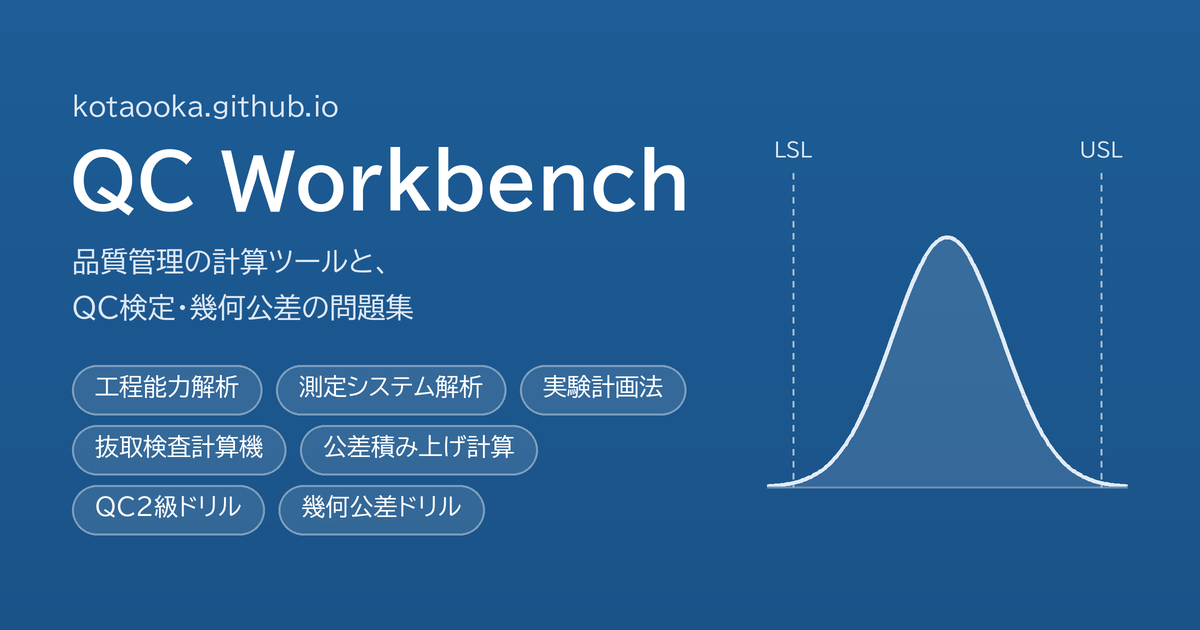
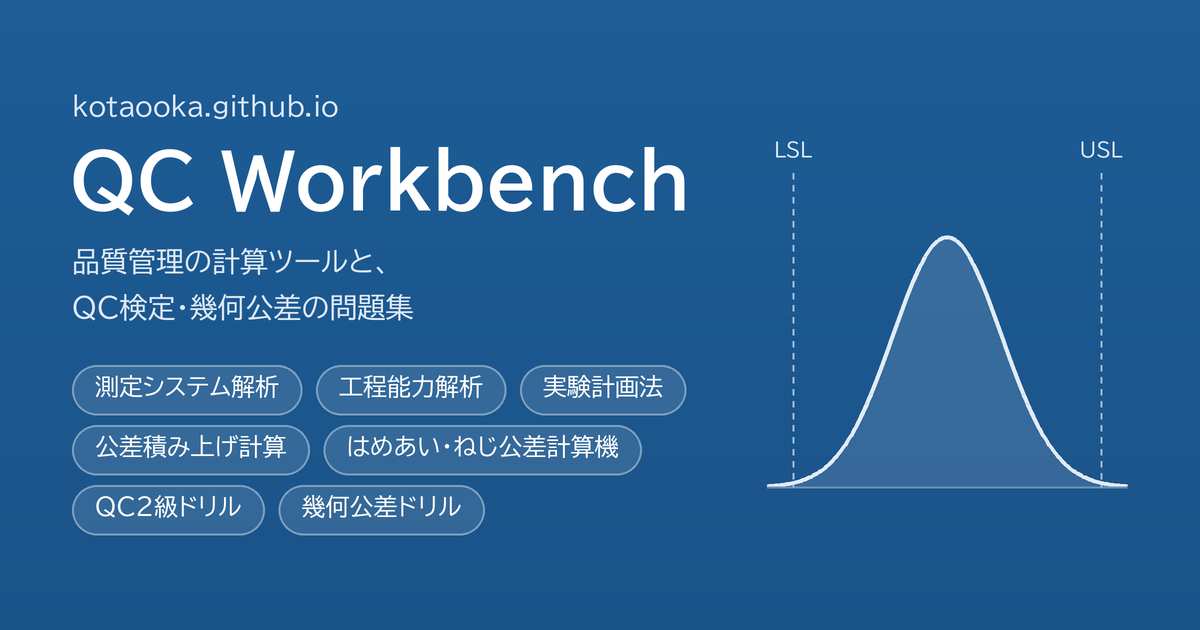
og画像を再生成（チップをグループ順に：データ解析・工学計算・問題集）
- make_og.py の TOOLS を行ごとにグループへ対応させ、はめあい・ねじ公差計算機を追加
- og:image:alt を画像の内容に合わせて更新

Changed region(s): [[0.0617, 0.573, 0.555, 0.754]]

diff --git a/index.html b/index.html
@@ -17,7 +17,7 @@
 <meta property="og:image" content="https://kotaooka.github.io/og.png">
 <meta property="og:image:width" content="1200">
 <meta property="og:image:height" content="630">
-<meta property="og:image:alt" content="QC Workbench：工程能力解析・測定システム解析・2値データの要因解析・抜取検査計算機・公差積み上げ計算・色差累積ビューア・QC2級ドリル・幾何公差ドリル・PDF圧縮">
+<meta property="og:image:alt" content="QC Workbench：品質管理の計算ツールと、QC検定・幾何公差の問題集。測定システム解析・工程能力解析・実験計画法・公差積み上げ計算・はめあい・ねじ公差計算機・QC2級ドリル・幾何公差ドリル">
 <meta name="twitter:card" content="summary_large_image">
 <link rel="canonical" href="https://kotaooka.github.io/">
 <!-- ファビコン（外部ファイル不要のインラインSVG） -->

diff --git a/tools/make_og.py b/tools/make_og.py
@@ -15,9 +15,10 @@ FONT_DIRS = [pathlib.Path(sys.argv[1])] if len(sys.argv) > 1 else [pathlib.Path(
 FONT_FILES = {"Regular": ["BIZUDPGothic-Regular.ttf", "BIZ-UDGothicR.ttc"], "Bold": ["BIZUDPGothic-Bold.ttf", "BIZ-UDGothicB.ttc"]}
 
 SUBTITLE = ["品質管理の計算ツールと、", "QC検定・幾何公差の問題集"]
+# 1行目＝データ解析、2行目＝工学計算、3行目＝問題集（ポータルのグループ順）
 TOOLS = [
-    ["工程能力解析", "測定システム解析", "実験計画法"],
-    ["抜取検査計算機", "公差積み上げ計算"],
+    ["測定システム解析", "工程能力解析", "実験計画法"],
+    ["公差積み上げ計算", "はめあい・ねじ公差計算機"],
     ["QC2級ドリル", "幾何公差ドリル"],
 ]
 TOP, BOTTOM = (29, 92, 150), (26, 83, 136)  # 計算ツールのアクセント #1d5c96 から少し暗く
